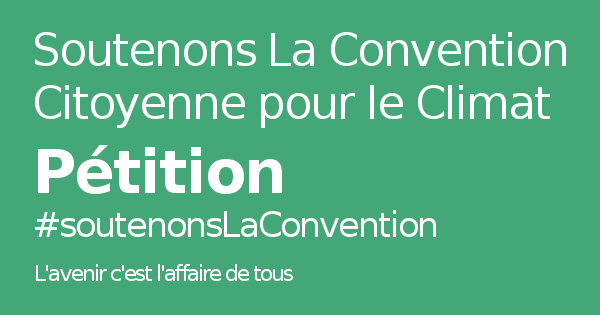
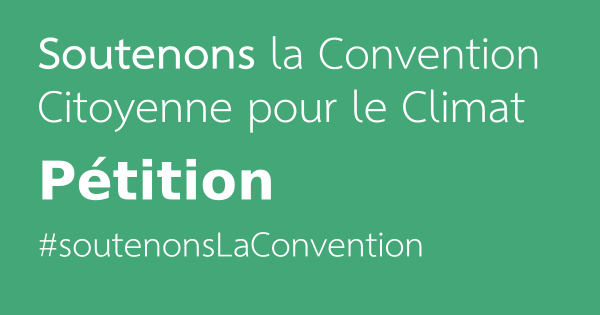
branding changes

diff --git a/public/css/main.css b/public/css/main.css
@@ -43,6 +43,7 @@ img {
 .banner {
     background-color: var(--green);
     margin-bottom: 0;
+    max-height: 315px;
 }
 .banner .container {
     margin-bottom: 0;
